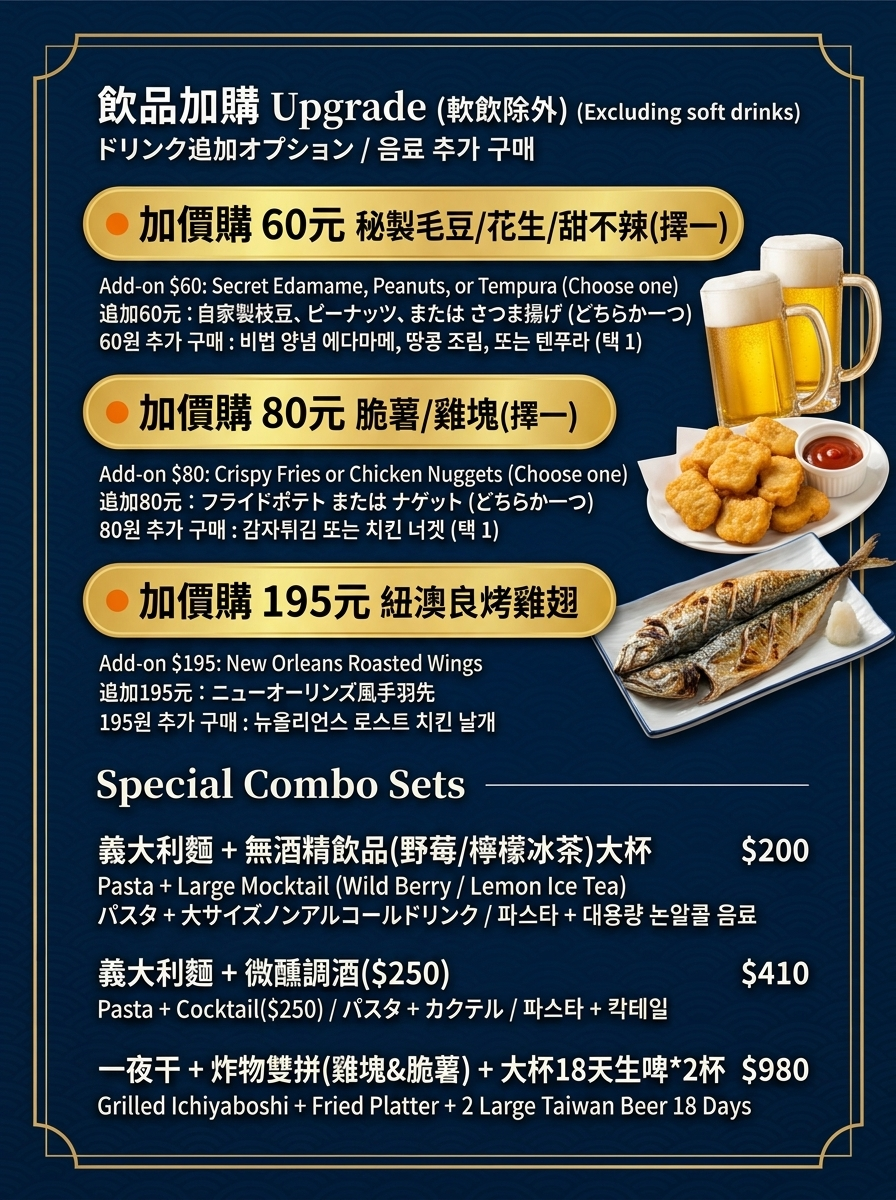
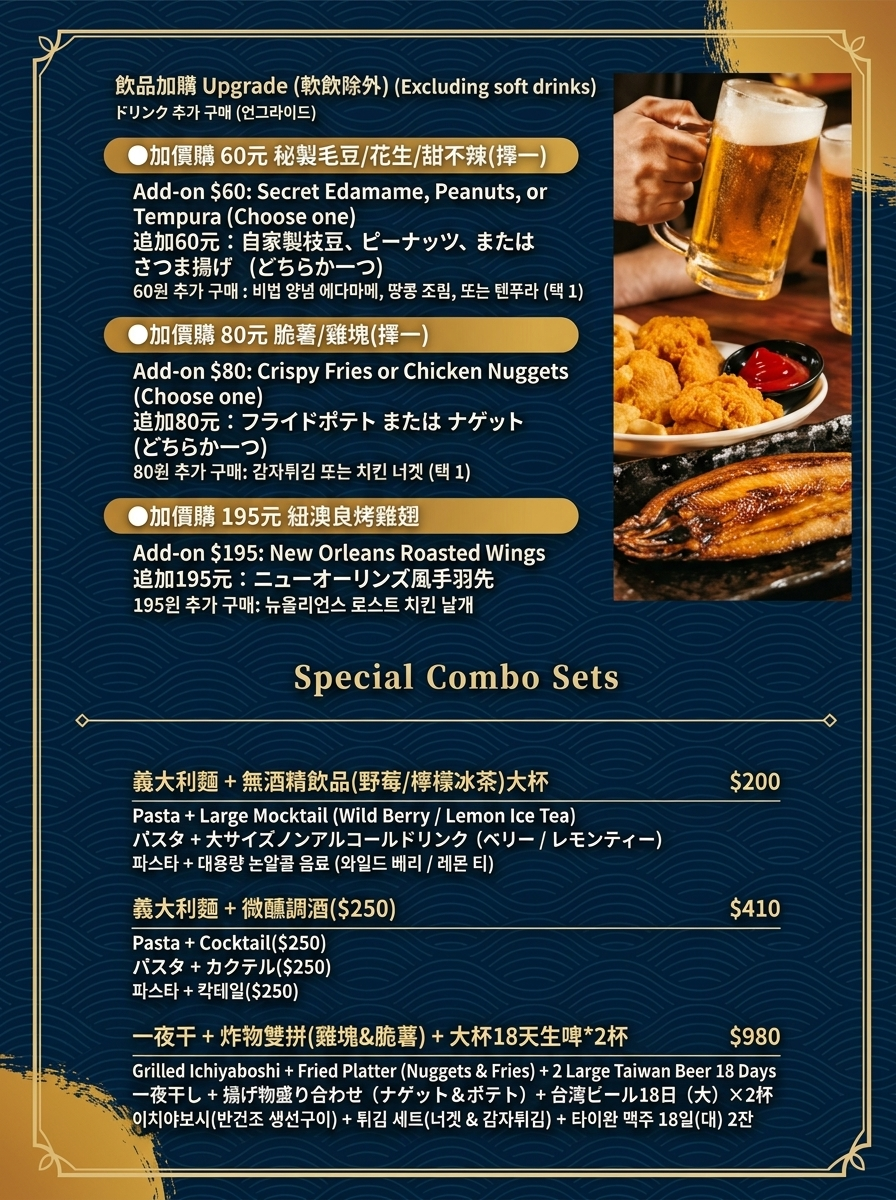
fix(menu): revert page 3 to requested version (f57f5e3) and print 雪山啤酒 10 on page 5 with uniform font size

diff --git a/preview.html b/preview.html
@@ -209,7 +209,7 @@
             {
                 file: "assets/menu_p5.jpg",
                 title: "🍾 第 5 頁：敲敲瓶身感受微醺！精釀啤酒與韓式燒啤",
-                desc: "朝日瓶裝 ($160)、布希啤酒 ($210)、歸剛ㄟ零糖啤酒 ($220)、小滿冬瓜茶啤酒 ($220)、立秋東方美人茶啤酒 ($220)、貓頭鷹蘋果氣泡酒 ($220)、燒酒Somaek ($220)、美韓轟炸機組合 ($390)"
+                desc: "朝日瓶裝 ($160)、雪山啤酒 ($210)、歸剛ㄟ零糖啤酒 ($220)、小滿冬瓜茶啤酒 ($220)、立秋東方美人茶啤酒 ($220)、貓頭鷹蘋果氣泡酒 ($220)、燒酒Somaek ($220)、美韓轟炸機組合 ($390)"
             }
         ];
 

diff --git a/menu_viewer.py b/menu_viewer.py
@@ -50,7 +50,7 @@ MENU_PAGES = [
         "title": "🍾 第 5 頁：敲敲瓶身感受微醺！精釀啤酒與韓式燒啤",
         "tab_name": "🍾 5. 敲敲瓶裝 & 燒啤",
         "file": "menu_p5.jpg",
-        "desc": "朝日瓶裝 ($160)、布希啤酒 ($210)、歸剛ㄟ零糖啤酒 ($220)、小滿冬瓜茶啤酒 ($220)、立秋東方美人茶啤酒 ($220)、貓頭鷹蘋果氣泡酒 ($220)、燒酒Somaek ($220)、美韓轟炸機組合 ($390)"
+        "desc": "朝日瓶裝 ($160)、雪山啤酒 ($210)、歸剛ㄟ零糖啤酒 ($220)、小滿冬瓜茶啤酒 ($220)、立秋東方美人茶啤酒 ($220)、貓頭鷹蘋果氣泡酒 ($220)、燒酒Somaek ($220)、美韓轟炸機組合 ($390)"
     }
 ]
 

diff --git a/db.py b/db.py
@@ -38,7 +38,7 @@ OFFICIAL_MENU_ITEMS = [
 
     # 3. 敲敲瓶裝精釀
     ("朝日Asahi瓶裝啤酒", "敲敲瓶裝精釀", 55.0, 160.0, 80),
-    ("Busch Beer (布希啤酒)", "敲敲瓶裝精釀", 70.0, 210.0, 75),
+    ("雪山啤酒 (Busch Beer)", "敲敲瓶裝精釀", 70.0, 210.0, 75),
     ("歸剛ㄟ | 零糖啤酒", "敲敲瓶裝精釀", 75.0, 220.0, 105),
     ("小滿 | 冬瓜茶啤酒", "敲敲瓶裝精釀", 75.0, 220.0, 115),
     ("立秋 | 東方美人茶啤酒", "敲敲瓶裝精釀", 75.0, 220.0, 125),
